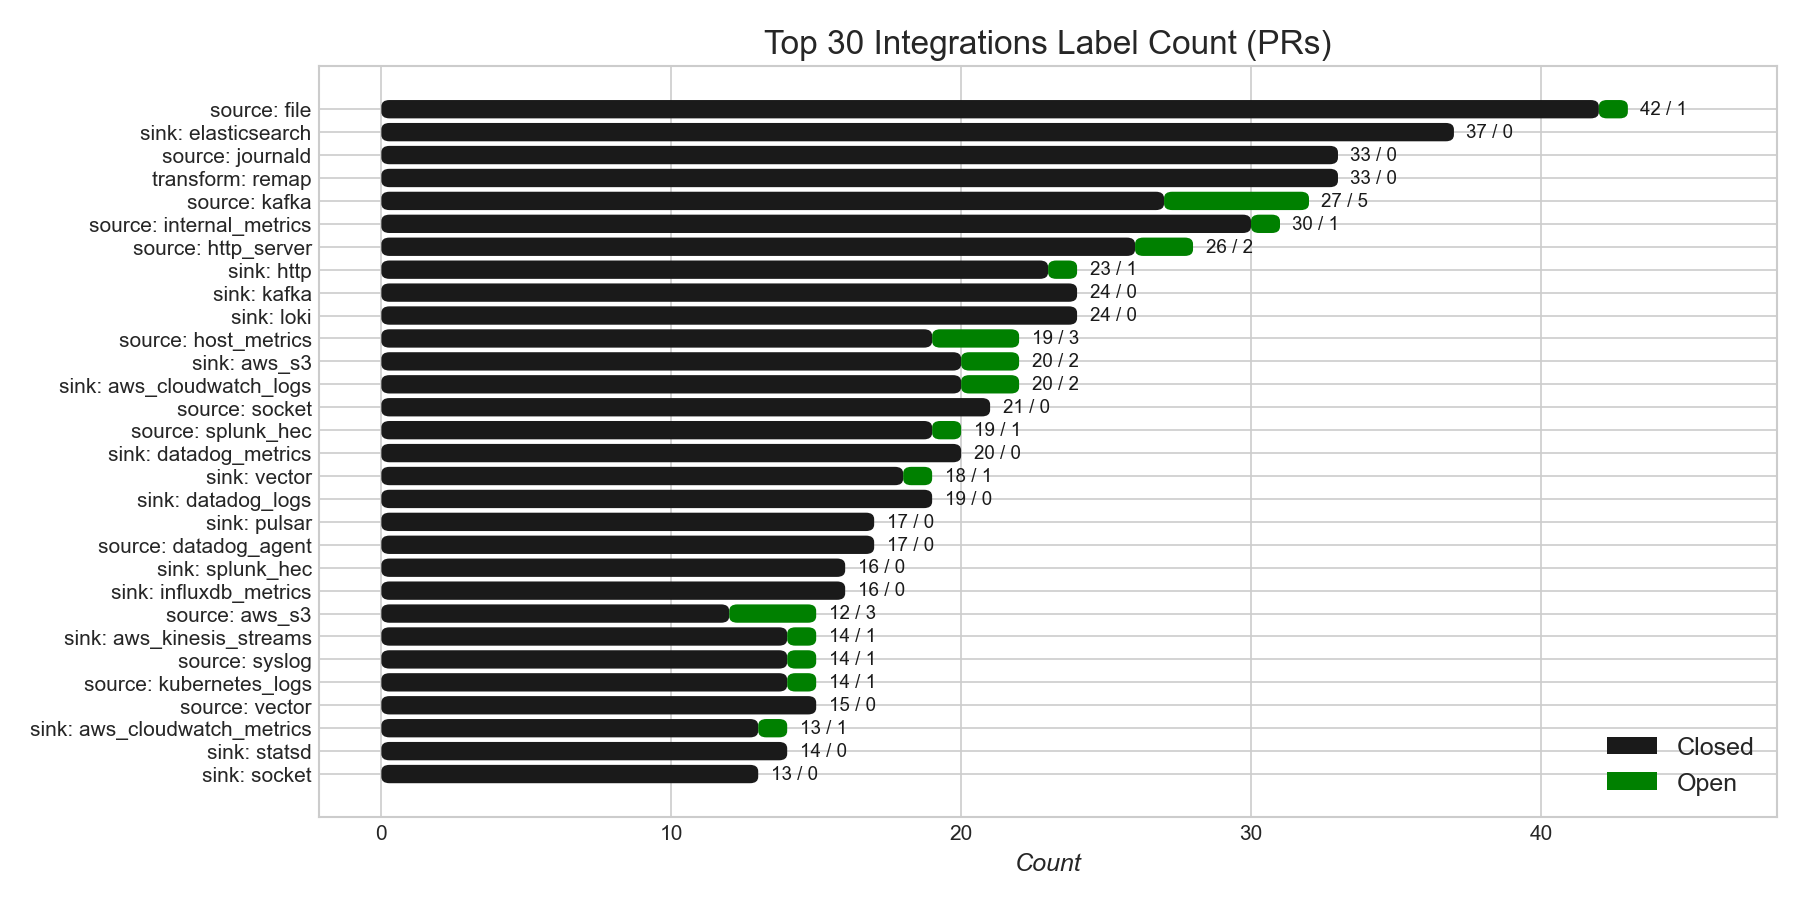
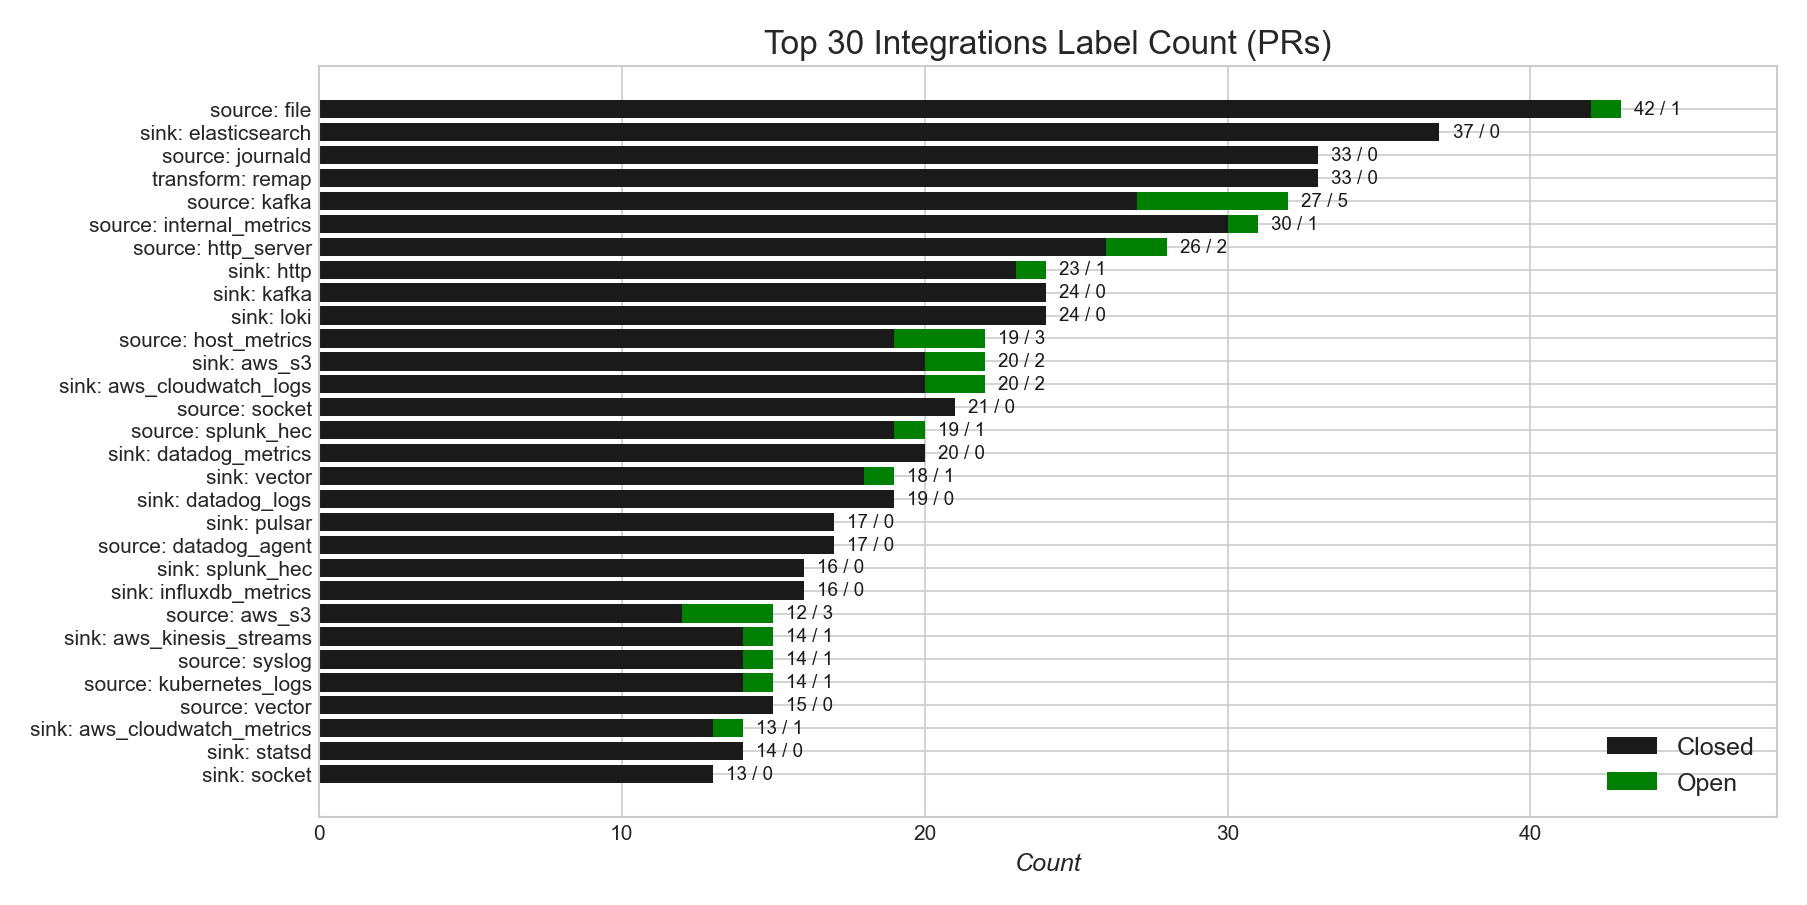
Round bars only on non-stacked charts
Revert rounding on the open/closed integrations chart and the
unique-contributors chart (stacked bars) — the segment seams read
as visual noise rather than intentional. Keep rounding on the
single-color Top Labels by Frequency chart and add it to the
grouped (non-stacked) Top N Labels Over Time chart.

diff --git a/scripts/util/plot.py b/scripts/util/plot.py
@@ -469,6 +469,7 @@ def plot_label_count(path, table, output_path, top_n=8, start_date=None, exclude
                     x_positions.append(x)
                     heights.append(row[label])
             ax.bar(x_positions, heights, width=bar_width, label=label, color=colors[label])
+        round_bars(ax)
 
         # Axes styling
         ax.set_xticks(np.arange(len(months)))
@@ -517,7 +518,6 @@ def plot_label_state_counts(path, table, output_path, top_n, exclude_labels=None
         fig, ax = plt.subplots(figsize=(12, 6))
         ax.barh(df["label_name"], df["closed_count"], label="Closed", color=DARK)
         ax.barh(df["label_name"], df["open_count"], left=df["closed_count"], label="Open", color="green")
-        round_bars(ax)
 
         # Inline "closed / open" labels at the end of each bar
         x_pad = df["total"].max() * 0.01
@@ -662,7 +662,6 @@ def plot_unique_contributors(path, table, output_path, window_months=12):
         ax.bar(x, returning_counts.values, color="#8E5CE6", label="Returning")
         ax.bar(x, new_counts.values, bottom=returning_counts.values,
                color="#36B37E", label="New")
-        round_bars(ax)
 
         totals = returning_counts.values + new_counts.values
         for i, t in enumerate(totals):
